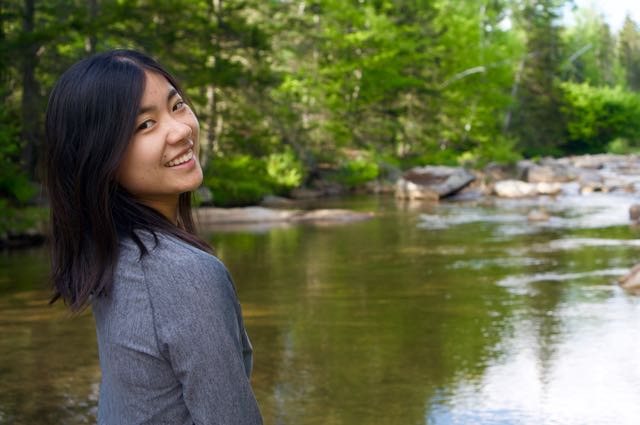
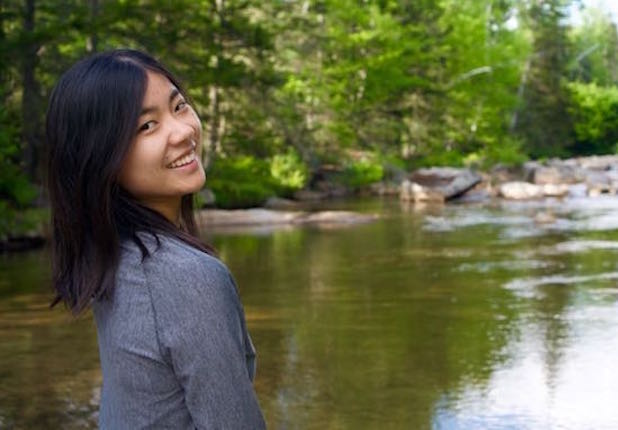
resized images and modified heading css

diff --git a/research.html b/research.html
@@ -48,11 +48,11 @@ Manuscript in preparation
 <p>The inability to resolve subgrid scale processes has been shown to lead to biases in chemical transport models (CTMs). Increasing the spatial resolution of a chemical transport model may improve simulations but can be computationally expensive. Using observations from the SEAC4RS aircraft campaign, we evaluate the effect of chemical non-linearity on the ability of a CTM to simulate the chemical interactions in the Southeast US, a region of high isoprene emissions. We find that at higher spatial resolutions, models are better able to simulate the chemical pathways of ozone precursors, but the overall effect on regional mean concentrations is small. This implies that for regional boundary layer applications, coarse resolution models are adequate. </p>
 
 <h3>References:</h3>
-Publications:
+<h4>Publications:</h4>
 <ul>
 <li><a href="http://www.atmos-chem-phys.net/16/4369/2016/acp-16-4369-2016.html"><b>Yu, K.</b>, Jacob, D. J., Fisher, J. A., Kim, P. S., Marais, E. A., Miller, C. C., Travis, K. R., Zhu, L., Yantosca, R. M., Sulprizio, M. P., Cohen, R. C., Dibb, J. E., Fried, A., Mikoviny, T., Ryerson, T. B., Wennberg, P. O., and Wisthaler, A.: Sensitivity to grid resolution in the ability of a chemical transport model to simulate observed oxidant chemistry under high-isoprene conditions, Atmos. Chem. Phys., 16, 4369-4378, doi:10.5194/acp-16-4369-2016, 2016.</a>
 </ul>
-Presentations:
+<h4>Presentations:</h4>
 <ul>
   <li><a href="http://acmg.seas.harvard.edu/presentations/IGC7/talks/ThuA_TropO3_yu_karen_1_mac.pdf"><b>Yu, K.</b>, Jacob, D. J., Fisher, J., Kim, S., Travis, K., Zhu, L., Yantosca, R., Sulprizio, M., Ryerson, T., Wisthaler, A., Fried, A., Wennberg, P., and the SEAC4RS Science Team (2015), Modeling oxidant chemistry in a high-isoprene atmospheric environment: sensitivity to model resolution and constraints from aircraft observations, presented at 2015 International GEOS-Chem Users' Meeting, Cambridge, Massachusetts, 4-7 May.</a></li>
   <li><a href="http://abstractsearch.agu.org/meetings/2014/FM/A33B-3173.html"><b>Yu, K.</b>, Jacob, D. J., Travis, K., Kim, S., Fisher, J., Zhu, L., Yantosca, R., and Sulprizio, M. (2014), Impact of Grid Resolution on Chemical Transport Modeling in the Southeast US: GEOS-Chem Model Constrained with Observations from SEAC4RS Aircraft Campaign, Abstract A33B-3173 presented at 2014 Fall Meeting, AGU, San Francisco, Calif., 15-19 Dec.</a></li>

diff --git a/1.css b/1.css
@@ -20,14 +20,6 @@ a:hover {
 	text-decoration:none;
 }
 
-#wrapper {
-	background:#fff;
-	max-width:900px;
-	width:expression(this.width > 320 ? "320px" : this.width);
-	min-width:760px;
-	margin:0 auto;
-}
-
 * html #wrapper
 {
 	w\idth: expression(document.documentElement.clientWidth > 900 ? "900px" : "auto");
@@ -153,6 +145,13 @@ ul#nav li a em {
     padding:0px 0px 0px 5px;
 }
 
+#content h4 {
+	font:120% Trebuchet MS;
+	color:#444;
+	margin:15px 15px 5px 15px;
+    padding:0px 0px 0px 5px;
+}
+
 #content a {
     color:#000;
     text-decoration:none;
@@ -164,39 +163,15 @@ ul#nav li a em {
 }
 
 blockquote {
-	margin:20px 20px 20px 20px;
+	margin:0px 15px 10px 10px;
 }
 
 #content ul {
 	margin:0 0 0 40px;
 }
 
-#content form {
-	padding:10px;
-	margin:20px;
-	border:1px solid #ccc;
-}
-
-#content form label {
-	font-weight:bold;
-	color:#444;
-	display:block;
-}
-
-#content form input {
-	width:96%;
-	border:1px solid #ddd;
-	padding:4px;
-	margin:5px 0 10px 0;
-	font:90% Verdana;
-}
-
-#content form textarea {
-	width:96%;
-	border:1px solid #ddd;
-	padding:4px;
-	margin:5px 0 10px 0;
-	font:90% Verdana;
+#caption {
+    margin:0 0px 0 0px;
 }
 
 #footer {

diff --git a/index.html b/index.html
@@ -32,10 +32,9 @@
 
 <!-- Main body -->
 <div id="content">
-<p><img src="face.jpg">
+<p><img src="face.jpg"></p>
 <blockquote>I am a fifth year PhD candidate in the <a href="http://acmg.seas.harvard.edu">Atmospheric Chemistry Modeling Group</a> at Harvard University. I work on high resolution chemical transport model development, in particular examining the tradeoffs between model complexity and model skill. Post graduation, I hope to transition to a career in data science. </blockquote>
-<img src="o3_850hpa.gif" align="right">
-</p>
+<p><img src="o3_850hpa.gif" width="400", title="Model simulated boundary layer ozone over North America during July-August 2013 overlaid with aircraft observations"> </p>
 </div>
 
 <!-- Footer -->
